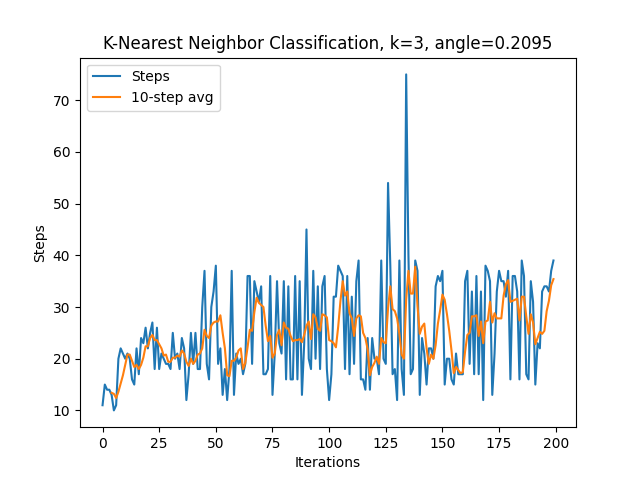
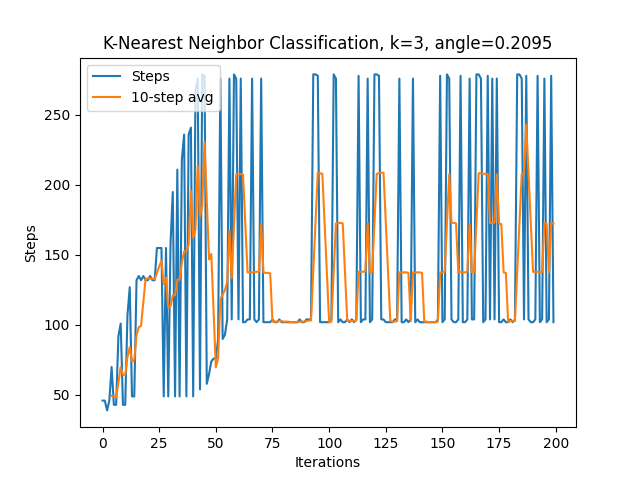
WIP debugging deterministic tree

diff --git a/classes/cartPoleTreeNode.py b/classes/cartPoleTreeNode.py
@@ -3,7 +3,8 @@ import random
 EXPLORE = 0
 MAXIMIZE_POINTS = 1
 
-RISK_THRESHOLD = 4.5
+RISK_THRESHOLD = 3.5
+
 
 class CartPoleTreeNode:
     def __init__(self, state, time_step, is_final):
@@ -17,6 +18,8 @@ class CartPoleTreeNode:
         self.holes_beneath = 0 if is_final else 2
         self.strategy = MAXIMIZE_POINTS
         self.is_final = is_final
+        self.most_recent_choice = -1
+        self.visited = 0
 
     def update(self):
         if self.children[0] != None and self.children[1] != None:
@@ -30,12 +33,13 @@ class CartPoleTreeNode:
             self.max_depth = self.children[i].max_depth + 1
             self.max_unexplored_depth = self.children[i].max_unexplored_depth + 1 if self.children[i].max_unexplored_depth != 0 else 1
             self.holes_beneath = self.children[i].holes_beneath + 1
+        self.visited += 1
         self.risk_weighted_score = self.update_risk_weighted_score()
 
 
     def register_move(self, new_state, new_time_step, is_final, direction):
         if self.children[direction] != None:
-            if (not self.states_are_equal(new_state, self.children[direction].state) or is_final != self.children[direction].is_final):
+            if (not self.states_are_equal(new_state, self.children[direction].state) or is_final != self.children[direction].is_final) and False:
                 print("States are not matching")
                 # TODO fix this part
                 # Why are same steps not giving same results?
@@ -47,8 +51,11 @@ class CartPoleTreeNode:
         if new_strategy != None:
             self.strategy = new_strategy
         if self.strategy == MAXIMIZE_POINTS:
-            return self.maximize_points()
-        return 0
+            choice = self.maximize_points()
+        else:
+            choice = 0
+        self.most_recent_choice = choice
+        return choice
 
     def states_are_equal(self, obs1, obs2):
         if len(obs1) != len(obs2):
@@ -67,6 +74,31 @@ class CartPoleTreeNode:
         if left_score == right_score:
             return random.getrandbits(1)
         return 0 if left_score > right_score else 1
+
+    def visualize_tree(self):
+        if self.children[0] == None and self.children[1] == None:
+            return [1]
+        if self.children[0] != None and self.children[1] != None:
+            vis_list = [1]
+            visual_0 = self.children[0].visualize_tree()
+            visual_1 = self.children[1].visualize_tree()
+            for i in range(max(len(visual_1), len(visual_0))):
+                sum = 0
+                if len(visual_0) > i:
+                    sum += visual_0[i]
+                if len(visual_1) > i:
+                    sum += visual_1[i]
+                vis_list.append(sum)
+            return [1] + vis_list
+        i = 0 if self.children[0] != None else 1
+        return [1] + self.children[i].visualize_tree()
+
+    def show_selected_path(self):
+        if self.most_recent_choice == -1:
+            return ""
+        return str(self.most_recent_choice) + self.children[self.most_recent_choice].show_selected_path()
+
+
 
 
 

diff --git a/cartPole/standardTree.py b/cartPole/standardTree.py
@@ -12,15 +12,16 @@ from classes.cartPoleTreeNode import *
 
 ############### Constants ###################
 CUTOFF = True
-CUTOFFPOINT = 200
+CUTOFFPOINT = 600
 
 STOP_AFTER_CONSEC_500S = False
 
 ANGLE = 0.2095
 # ANGLE = 1.0
 
-SHOW_GAMES = True
+SHOW_GAMES = False
 
+# Set to -1 for automatic rolling average generation.
 MANUAL_ROLLING_AVERAGE = -1
 
 K_START = 1
@@ -49,6 +50,7 @@ def run_k_nearest(k=-1, show_results=True, save_results=True, window_width=5):
     env = gym.make("CartPole-v1", render_mode=render_mode)
     env.action_space.seed(0)
     np.random.seed(0)
+    random.seed(0)
 
     observation, info = env.reset(seed=0)
 
@@ -67,16 +69,21 @@ def run_k_nearest(k=-1, show_results=True, save_results=True, window_width=5):
     current_node = root_node
 
     while its_before_finished < CUTOFFPOINT:
+        if steps_alive%STEPS_PER_NODE == 0:
+            if steps_alive >= 20:
+                testwer = "sdf"
+            action = current_node.pick_action()
+
         observation, reward, terminated, truncated, info = env.step(action)
 
         if steps_alive%STEPS_PER_NODE == 0:
             visited_nodes.append(current_node)
             current_node = current_node.register_move(observation, steps_alive, is_game_over(observation), action)
-            action = current_node.pick_action()
+
 
         steps_alive += 1
 
-        if np.abs(observation[2]) > ANGLE or np.abs(observation[0]) > 2.4 or truncated:
+        if (np.abs(observation[2]) > ANGLE or np.abs(observation[0]) > 2.4 or truncated):
             if not truncated:
                 for node in reversed(visited_nodes):
                     node.update()
@@ -90,9 +97,11 @@ def run_k_nearest(k=-1, show_results=True, save_results=True, window_width=5):
 
             current_node = root_node
             visited_nodes = []
-            observation, info = env.reset()
+            observation, info = env.reset(seed=0)
 
-            print(f"{its_before_finished}: Steps alive: {steps_alive}")
+            #print(f"{its_before_finished}: Steps alive: {steps_alive}")
+            print(root_node.visualize_tree())
+            #print(root_node.show_selected_path())
             data = np.append(data, [steps_alive])
             steps_alive = 0
             its_before_finished += 1
